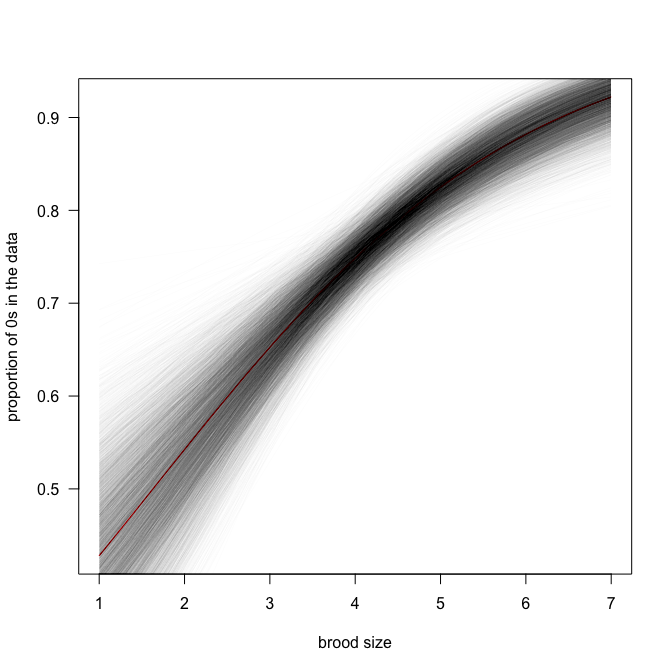
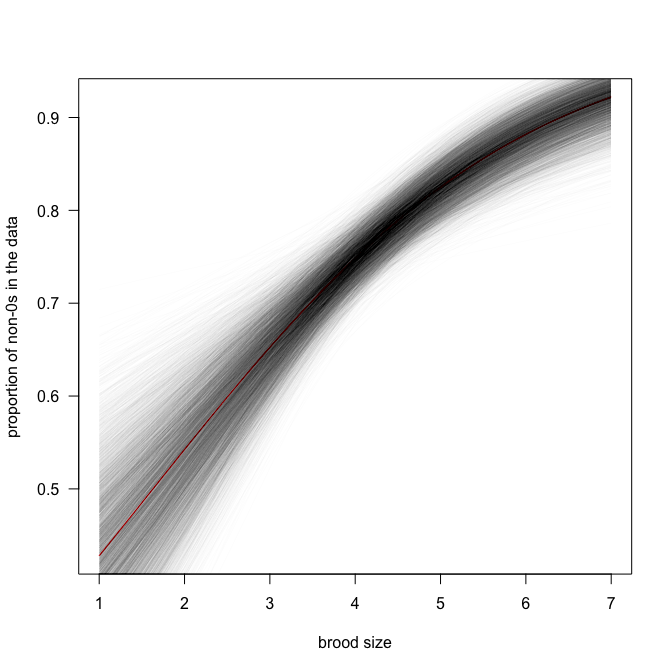
updated text and added a YAML-header to .md file

diff --git a/LectureNotes/2016-JAGS/ZeroInflation/ZeroInflation_JAGS.md b/LectureNotes/2016-JAGS/ZeroInflation/ZeroInflation_JAGS.md
@@ -1,7 +1,7 @@
-# Zero-inflation, and how to deal with it in R and JAGS
-Carsten F. Dormann  
-`r format(Sys.time(), "%d %B, %Y")`  
-
+---
+title: Zero-inflation, and how to deal with it in R and JAGS
+author: Carsten F. Dormann  
+---
 
 
 # Introduction: what is zero-inflation?
@@ -149,13 +149,14 @@ detach(Owls)
 Now comes the crucial bit!
 
 ## The first (very primitive) zero-inflation model in JAGS
+Note that it is costumary to model the proportion of 1s (now called $\psi = 1-\pi$), rather than the proportion of $0$s ($\pi$)!
 
 ```r
 ZIPR <- function() {
   for(i in 1:N){ # loop through all data points
     SibNeg[i] ~ dpois(mu[i]) 
     mu[i] <- lambda[i]*z[i] + 0.00001 ## hack required for Rjags -- otherwise 'incompatible'-error 
-     z[i] ~ dbern(pi)
+     z[i] ~ dbern(psi)
     
     log(lambda[i]) <-  lgBroodSize[i] + alpha 
     # lgBroodSize is offset
@@ -164,15 +165,14 @@ ZIPR <- function() {
  
   # priors:
   alpha ~ dnorm(0, 0.01)     # overall model intercept
-  pi ~ dunif(0, 1)          # proportion of non-zeros
+  psi ~ dunif(0, 1)          # proportion of non-zeros
 }
 ```
-
 
 Now we need to define which parameters to monitor, how to initialise them, and what the chain settings are:
 
 ```r
-parameters <- c("alpha", "pi") # which parameters are we interested in getting reported?
+parameters <- c("alpha", "psi") # which parameters are we interested in getting reported?
 
 ni <- 1E3; nb <- ni/2 # number of iterations; number of burnins
 nc <- 3; nt <- 5      # number of chains; thinning
@@ -214,16 +214,16 @@ DIC info (using the rule, pD = var(deviance)/2)
 pD = 47.5 and DIC = 3701.7
 DIC is an estimate of expected predictive error (lower deviance is better).
 ```
-So we get estimates for $\pi$ (around 0.74) and $\alpha$ (around 0.69), indicating that there is substantial zero-inflation! However, our model is currently really stupid and does not use any information on the predictors to explain begging. Maybe once we put these in we can explain more of the $0$s by "Poisson-zeros", rather than "Bernoulli-zeros" (aka excess zeros).
+So we get estimates for $\psi$ (around 0.74) and $\alpha$ (around 0.69), indicating that there is quite a bit of zero-inflation! However, our model is currently really stupid and does not use any information on the predictors to explain begging. Maybe once we put these in we can explain more of the $0$s by "Poisson-zeros", rather than "Bernoulli-zeros" (aka excess zeros).
 
-## Model 2: add predictors for $\lambda$
+# Model 2: add predictors for $\lambda$
 
 ```r
 ZIPR2 <- function() {
   for(i in 1:N){ # loop through all data points
     SibNeg[i] ~ dpois(mu[i]) 
     mu[i] <- lambda[i]*z[i] + 0.00001 ## hack required for Rjags -- otherwise 'incompatible'-error 
-     z[i] ~ dbern(pi)
+     z[i] ~ dbern(psi)
     
     log(lambda[i]) <-  lgBroodSize[i] + alpha + beta[1]*FoodTreatment[i] + beta[2]*SexParent[i] + beta[3]*FoodSex[i]
     # lgBroodSize is offset
@@ -235,12 +235,12 @@ ZIPR2 <- function() {
   for (m in 1:3){
       beta[m] ~ dnorm(0, 0.01)      # Linear effects
   }  
-  pi ~ dunif(0, 1)          # proportion of non-zeros
+  psi ~ dunif(0, 1)          # proportion of non-zeros
 }
 ```
 
 ```r
-parameters <- c("alpha", "beta", "pi") # which parameters are we interested in getting reported?
+parameters <- c("alpha", "beta", "psi") # which parameters are we interested in getting reported?
 ZIPR2jags <- jags(OwlsData, inits=inits, parameters, model.file = ZIPR2, n.chains = nc, n.thin = nt, n.iter = ni, n.burnin = nb, working.directory = getwd())
 ```
 
@@ -273,20 +273,20 @@ DIC info (using the rule, pD = var(deviance)/2)
 pD = 67.3 and DIC = 3700.0
 DIC is an estimate of expected predictive error (lower deviance is better).
 ```
-So while the model has improved (the DIC is lower by 10 units), the value for $\pi$ hasn't changed much.
+So while the model has improved (the DIC is lower by 10 units), the value for $\psi$ hasn't changed much.
 
 We can do better still.
 
 Notice that so far the siblings within a nest are treated as independent, while they are in fact "nested" (pun intended). So we need to incorporate a random term for nest as well.
 
-## Model 3: add random effect for nest
+# Model 3: add random effect for nest
 
 ```r
 ZIPR3 <- function() {
   for(i in 1:N){ # loop through all data points
     SibNeg[i] ~ dpois(mu[i]) 
     mu[i] <- lambda[i]*z[i] + 0.00001 ## hack required for Rjags -- otherwise 'incompatible'-error 
-     z[i] ~ dbern(pi)
+     z[i] ~ dbern(psi)
     
     log(lambda[i]) <-  lgBroodSize[i] + alpha + beta[1]*FoodTreatment[i] + beta[2]*SexParent[i] + beta[3]*FoodSex[i] + a[Nest[i]]
     # lgBroodSize is offset
@@ -299,7 +299,7 @@ ZIPR3 <- function() {
   for (m in 1:3){
       beta[m] ~ dnorm(0, 0.01)      # Linear effects
   }  
-  pi ~ dunif(0, 1)          # proportion of non-zeros
+  psi ~ dunif(0, 1)          # proportion of non-zeros
   for (j in 1:nnests){
     a[j] ~ dnorm(0, tau)     # random effect for each nest
   }
@@ -309,7 +309,7 @@ ZIPR3 <- function() {
 ```
 
 ```r
-parameters <- c("alpha", "beta", "pi", "tau") # which parameters are we interested in getting reported?
+parameters <- c("alpha", "beta", "psi", "tau") # which parameters are we interested in getting reported?
 ZIPR3jags <- jags(OwlsData, inits=inits, parameters, model.file = ZIPR3, n.chains = nc, n.thin = nt, n.iter = ni, n.burnin = nb, working.directory = getwd())
 ```
 
@@ -347,7 +347,7 @@ While we are now seeing a dramatic improvement in fit (DIC down by another 260 u
 
 ```r
 ni <- 1E4
-parameters <- c("alpha", "beta", "pi", "tau") # which parameters are we interested in getting reported?
+parameters <- c("alpha", "beta", "psi", "tau") # which parameters are we interested in getting reported?
 ZIPR3jags <- jags(OwlsData, inits=inits, parameters, model.file = ZIPR3, n.chains = nc, n.thin = nt, n.iter = ni, n.burnin = nb, working.directory = getwd())
 ```
 
@@ -381,14 +381,14 @@ DIC info (using the rule, pD = var(deviance)/2)
 pD = 98.4 and DIC = 3436.0
 DIC is an estimate of expected predictive error (lower deviance is better).
 ```
-Okay. Again, $\pi$ is still high and seems to be a feature of the data, rather than due to our poor modelling of $\lambda$.
+Okay. Again, $\psi$ is still high and seems to be a feature of the data, rather than due to our poor modelling of $\lambda$.
 
 So, a first result interpretation is indicated:
 **What effects do you see, and what do they mean?**
 
 
-## Model 4: add effect of brood size on whether the chicks call at all
-It could be that a clutch of chicks is more vocal when it is larger. A single chick may remain silent more often than it would when in a group of siblings (maybe I am extrapolating too much from football supporters on their way to the stadium). Statistically, we can make $\pi$ a function of other predictors, too, in this case of brood size. Let's try.
+# Model 4: add effect of brood size on whether the chicks call at all
+It could be that a clutch of chicks is more vocal when it is larger. A single chick may remain silent more often than it would when in a group of siblings (maybe I am extrapolating too much from football supporters on their way to the stadium). Statistically, we can make $\psi$ a function of other predictors, too, in this case of brood size. Let's try.
 
 
 
@@ -398,8 +398,8 @@ ZIPR4 <- function() {
     SibNeg[i] ~ dpois(mu[i]) 
     mu[i] <- lambda[i]*z[i] + 0.00001 ## hack required for Rjags -- otherwise 'incompatible'-error 
     
-    z[i] ~ dbern(pi[i])
-    logit(pi[i]) <- alpha.pi + beta.pi*exp(lgBroodSize[i]) 
+    z[i] ~ dbern(psi[i])
+    logit(psi[i]) <- alpha.psi + beta.psi*exp(lgBroodSize[i]) 
     
     log(lambda[i]) <-  lgBroodSize[i] + alpha + beta[1]*FoodTreatment[i] + beta[2]*SexParent[i] + beta[3]*FoodSex[i] + a[Nest[i]]
     # lgBroodSize is offset
@@ -412,20 +412,21 @@ ZIPR4 <- function() {
   for (m in 1:3){
       beta[m] ~ dnorm(0, 0.01)      # Linear effects
   }  
-  # remove this: pi ~ dunif(0, 1)          # proportion of non-zeros
+  # remove this: psi ~ dunif(0, 1)          # proportion of non-zeros
   for (j in 1:nnests){
     a[j] ~ dnorm(0, tau)     # random effect for each nest
   }
   tau ~ dgamma(0.001, 0.001) # prior for mixed effect variance
-  alpha.pi ~ dnorm(0, 0.01)
-  beta.pi  ~ dnorm(0, 0.01)
+  alpha.psi ~ dnorm(0, 0.01)
+  beta.psi  ~ dnorm(0, 0.01)
 
 }
 ```
+Since I am too lazy to re-code the inits-function, I simply set the inits-argument to auto-pilot.
 
 ```r
-parameters <- c("alpha", "beta", "tau", "alpha.pi", "beta.pi") # which parameters are we interested in getting reported?
-ZIPR4jags <- jags(OwlsData, inits=inits, parameters, model.file = ZIPR4, n.chains = nc, n.thin = nt, n.iter = ni, n.burnin = nb, working.directory = getwd())
+parameters <- c("alpha", "beta", "tau", "alpha.psi", "beta.psi") # which parameters are we interested in getting reported?
+ZIPR4jags <- jags(OwlsData, inits=NULL, parameters, model.file = ZIPR4, n.chains = nc, n.thin = nt, n.iter = ni, n.burnin = nb, working.directory = getwd())
 ```
 
 ```r
@@ -463,7 +464,7 @@ And this model is better still (although "only" by 5 DIC-units).
 
 So the one thing that we could still add is overdispersion as observation-level random effect. This is more to show that we can, and less because I think it is really necessary.
 
-## Model 5: add OLRE-overdispersion
+# Model 5: add OLRE-overdispersion
 We add OLRE in the form of an additive effect $\xi$ at the level of the Poisson regression. All $\xi$ are normally distributed with mean 0 (otherwise they'd compete with intercept $\alpha$), and the precision of that normal distribution is taken to be $\gamma$-distributed (as is common for precision).
 
 Note that we now have two competing random effects: one at the level of the nest ($a$) and one at the level of the individual observation ($\xi$).
@@ -475,8 +476,8 @@ ZIPR5 <- function() {
     SibNeg[i] ~ dpois(mu[i]) 
     mu[i] <- lambda[i]*z[i] + 0.00001 ## hack required for Rjags -- otherwise 'incompatible'-error 
     
-    z[i] ~ dbern(pi[i])
-    logit(pi[i]) <- alpha.pi + beta.pi*exp(lgBroodSize[i]) 
+    z[i] ~ dbern(psi[i])
+    logit(psi[i]) <- alpha.psi + beta.psi*exp(lgBroodSize[i]) 
     
     log(lambda[i]) <-  lgBroodSize[i] + alpha + beta[1]*FoodTreatment[i] + beta[2]*SexParent[i] + beta[3]*FoodSex[i] + a[Nest[i]] + xi[i]
     # lgBroodSize is offset
@@ -489,13 +490,13 @@ ZIPR5 <- function() {
   for (m in 1:3){
       beta[m] ~ dnorm(0, 0.01)      # Linear effects
   }  
-  # remove this: pi ~ dunif(0, 1)          # proportion of non-zeros
+  # remove this: psi ~ dunif(0, 1)          # proportion of non-zeros
   for (j in 1:nnests){
     a[j] ~ dnorm(0, tau)     # random effect for each nest
   }
   tau ~ dgamma(0.001, 0.001) # prior for mixed effect variance
-  alpha.pi ~ dnorm(0, 0.01)
-  beta.pi  ~ dnorm(0, 0.01)
+  alpha.psi ~ dnorm(0, 0.01)
+  beta.psi  ~ dnorm(0, 0.01)
 
   for (i in 1:N){
   	xi[i] ~ dnorm(0, tau.xi) # on average, xi should be 0 otherwise it competes with the intercept alpha!
@@ -506,8 +507,8 @@ ZIPR5 <- function() {
 ```
 
 ```r
-parameters <- c("alpha", "beta", "tau", "alpha.pi", "beta.pi", "tau.xi") # which parameters are we interested in getting reported?
-ZIPR5jags <- jags(OwlsData, inits=inits, parameters, model.file = ZIPR5, n.chains = nc, n.thin = nt, n.iter = ni, n.burnin = nb, working.directory = getwd())
+parameters <- c("alpha", "beta", "tau", "alpha.psi", "beta.psi", "tau.xi") # which parameters are we interested in getting reported?
+ZIPR5jags <- jags(OwlsData, inits=NULL, parameters, model.file = ZIPR5, n.chains = nc, n.thin = nt, n.iter = ni, n.burnin = nb, working.directory = getwd())
 ```
 
 ```r
@@ -542,7 +543,7 @@ DIC info (using the rule, pD = var(deviance)/2)
 pD = 591.6 and DIC = 2785.6
 DIC is an estimate of expected predictive error (lower deviance is better).
 ```
-Oh, that's somewhat of a surprise! The DIC dropped precipitously to just under 2800, i.e. by over 500 units. So I guess the data were substantially overdispersed, not only zero-inflated. Zero-inflation is still prevalent, and we should plot the relationship for $\pi$ to see which values it takes.
+Oh, that's somewhat of a surprise! The DIC dropped precipitously to just under 2800, i.e. by over 500 units. So I guess the data were substantially overdispersed, not only zero-inflated. Zero-inflation is still prevalent, and we should plot the relationship for $\psi$ to see which values it takes.
 
 
 ```r
@@ -554,20 +555,20 @@ Obviously we should do this with all samples, not just the mean estimates:
 
 ```r
 # str(ZIPR5jags$BUGSoutput$sims.list)
-curve(plogis(-0.75 + 0.46*x), from=min(Owls$BroodSize), to=max(Owls$BroodSize), lwd=1, col="red", las=1, xlab="brood size", ylab="proportion of 0s in the data")
-for (i in 1:length(ZIPR5jags$BUGSoutput$sims.list$alpha.pi)){
-  thisA <- ZIPR5jags$BUGSoutput$sims.list$alpha.pi[i]
-  thisB <- ZIPR5jags$BUGSoutput$sims.list$beta.pi[i]
+curve(plogis(-0.75 + 0.46*x), from=min(Owls$BroodSize), to=max(Owls$BroodSize), lwd=1, col="red", las=1, xlab="brood size", ylab="proportion of non-0s in the data")
+for (i in 1:length(ZIPR5jags$BUGSoutput$sims.list$alpha.psi)){
+  thisA <- ZIPR5jags$BUGSoutput$sims.list$alpha.psi[i]
+  thisB <- ZIPR5jags$BUGSoutput$sims.list$beta.psi[i]
   curve(plogis(thisA + thisB*x), from=min(Owls$BroodSize), to=max(Owls$BroodSize), add=T, col=rgb(0.1, 0.1, 0.1, 0.01))
 }
 ```
 
 <img src="ZeroInflation_JAGS_files/figure-html/unnamed-chunk-25-1.png" style="display: block; margin: auto;" />
-So the proportion of $0$s is between 0.4 and 0.9, and the trend is positive (i.e. more $0$s when there are more siblings). So owl chicks are not like football supporters, it seems.
+So the proportion of $0$s is between 0.4 and 0.9, and the trend is positive (i.e. more non-$0$s when there are more siblings). So owl chicks are very much like football supporters, it seems.
 
 
 
-## Model diagnostics: simulation from model (5b)
+# Model diagnostics: simulation from model (5b)
 So far we have not spend any time on evaluating whether any of the models was really "good". That is not a trivial task, and we need to consider a new idea before being able to do so.
 
 **We call a model "good", if it is able to invent data that look like those we used to fit it to.**
@@ -584,8 +585,8 @@ ZIPR5s <- function() {
     SibNeg[i] ~ dpois(mu[i]) 
     mu[i] <- lambda[i]*z[i] + 0.00001 ## hack required for Rjags -- otherwise 'incompatible'-error 
     
-    z[i] ~ dbern(pi[i])
-    logit(pi[i]) <- alpha.pi + beta.pi*exp(lgBroodSize[i]) 
+    z[i] ~ dbern(psi[i])
+    logit(psi[i]) <- alpha.psi + beta.psi*exp(lgBroodSize[i]) 
     
     log(lambda[i]) <-  lgBroodSize[i] + alpha + beta[1]*FoodTreatment[i] + beta[2]*SexParent[i] + beta[3]*FoodSex[i] + a[Nest[i]] + xi[i]
     # lgBroodSize is offset
@@ -598,13 +599,13 @@ ZIPR5s <- function() {
   for (m in 1:3){
       beta[m] ~ dnorm(0, 0.01)      # Linear effects
   }  
-  # remove this: pi ~ dunif(0, 1)          # proportion of non-zeros
+  # remove this: psi ~ dunif(0, 1)          # proportion of non-zeros
   for (j in 1:nnests){
     a[j] ~ dnorm(0, tau)     # random effect for each nest
   }
   tau ~ dgamma(0.001, 0.001) # prior for mixed effect variance
-  alpha.pi ~ dnorm(0, 0.01)
-  beta.pi  ~ dnorm(0, 0.01)
+  alpha.psi ~ dnorm(0, 0.01)
+  beta.psi  ~ dnorm(0, 0.01)
 
   for (i in 1:N){
   	xi[i] ~ dnorm(0, tau.xi) # on average, xi should be 0 otherwise it competes with the intercept alpha!
@@ -613,13 +614,13 @@ ZIPR5s <- function() {
 
   # # # # # # # # # # # # # # # 
   # simulate data here:
-  # replace all latent variables L with an S.L (mu, lambda, pi, z), as well as the response:
+  # replace all latent variables L with an S.L (mu, lambda, psi, z), as well as the response:
   for (i in 1:N){ # loop through all data points
     S.SibNeg[i] ~ dpois(S.mu[i]) 
     S.mu[i] <- S.lambda[i]*z[i] + 0.00001 ## hack required for Rjags -- otherwise 'incompatible'-error 
     
-    S.z[i] ~ dbern(S.pi[i])
-    logit(S.pi[i]) <- alpha.pi + beta.pi*exp(lgBroodSize[i]) 
+    S.z[i] ~ dbern(S.psi[i])
+    logit(S.psi[i]) <- alpha.psi + beta.psi*exp(lgBroodSize[i]) 
     
     log(S.lambda[i]) <-  lgBroodSize[i] + alpha + beta[1]*FoodTreatment[i] + beta[2]*SexParent[i] + beta[3]*FoodSex[i] + a[Nest[i]] + xi[i]
   } 
@@ -628,8 +629,8 @@ ZIPR5s <- function() {
 ```
 
 ```r
-parameters <- c("alpha", "beta", "tau", "alpha.pi", "beta.pi", "tau.xi", "S.SibNeg") # which parameters are we interested in getting reported?
-ZIPR5sjags <- jags(OwlsData, inits=inits, parameters, model.file = ZIPR5s, n.chains = nc, n.thin = nt, n.iter = ni, n.burnin = nb, working.directory = getwd())
+parameters <- c("alpha", "beta", "tau", "alpha.psi", "beta.psi", "tau.xi", "S.SibNeg") # which parameters are we interested in getting reported?
+ZIPR5sjags <- jags(OwlsData, inits=NULL, parameters, model.file = ZIPR5s, n.chains = nc, n.thin = nt, n.iter = ni, n.burnin = nb, working.directory = getwd())
 ```
 We rather not look at the plot, where there would now be 599 values for <tt>S.SibNeg</tt> in addition to all the model parameters we have looked at before. Same for the summary of the model, which also should be the same as in model 5.
 
@@ -675,7 +676,7 @@ plot(qq ~ apply(ZIPR5sjags$BUGSoutput$sims.list$S.SibNeg, 2, mean), las=1, xlab=
 ```
 
 <img src="ZeroInflation_JAGS_files/figure-html/unnamed-chunk-30-1.png" style="display: block; margin: auto;" />
-The qq-plot looks almost fine, with some overestimation at high values. The standardised residuals (which are actually the quantiles) show should no pattern with expectation, however!
+The quantile-quantile-plot looks almost fine, with some overestimation at high values. The standardised residuals (which are actually the quantiles) show should no pattern with expectation, however!
 
 
 That means: we're not done yet. More model tuning is required to improve the model, so that the distribution of simulations is more in line with the distribution of observations.
